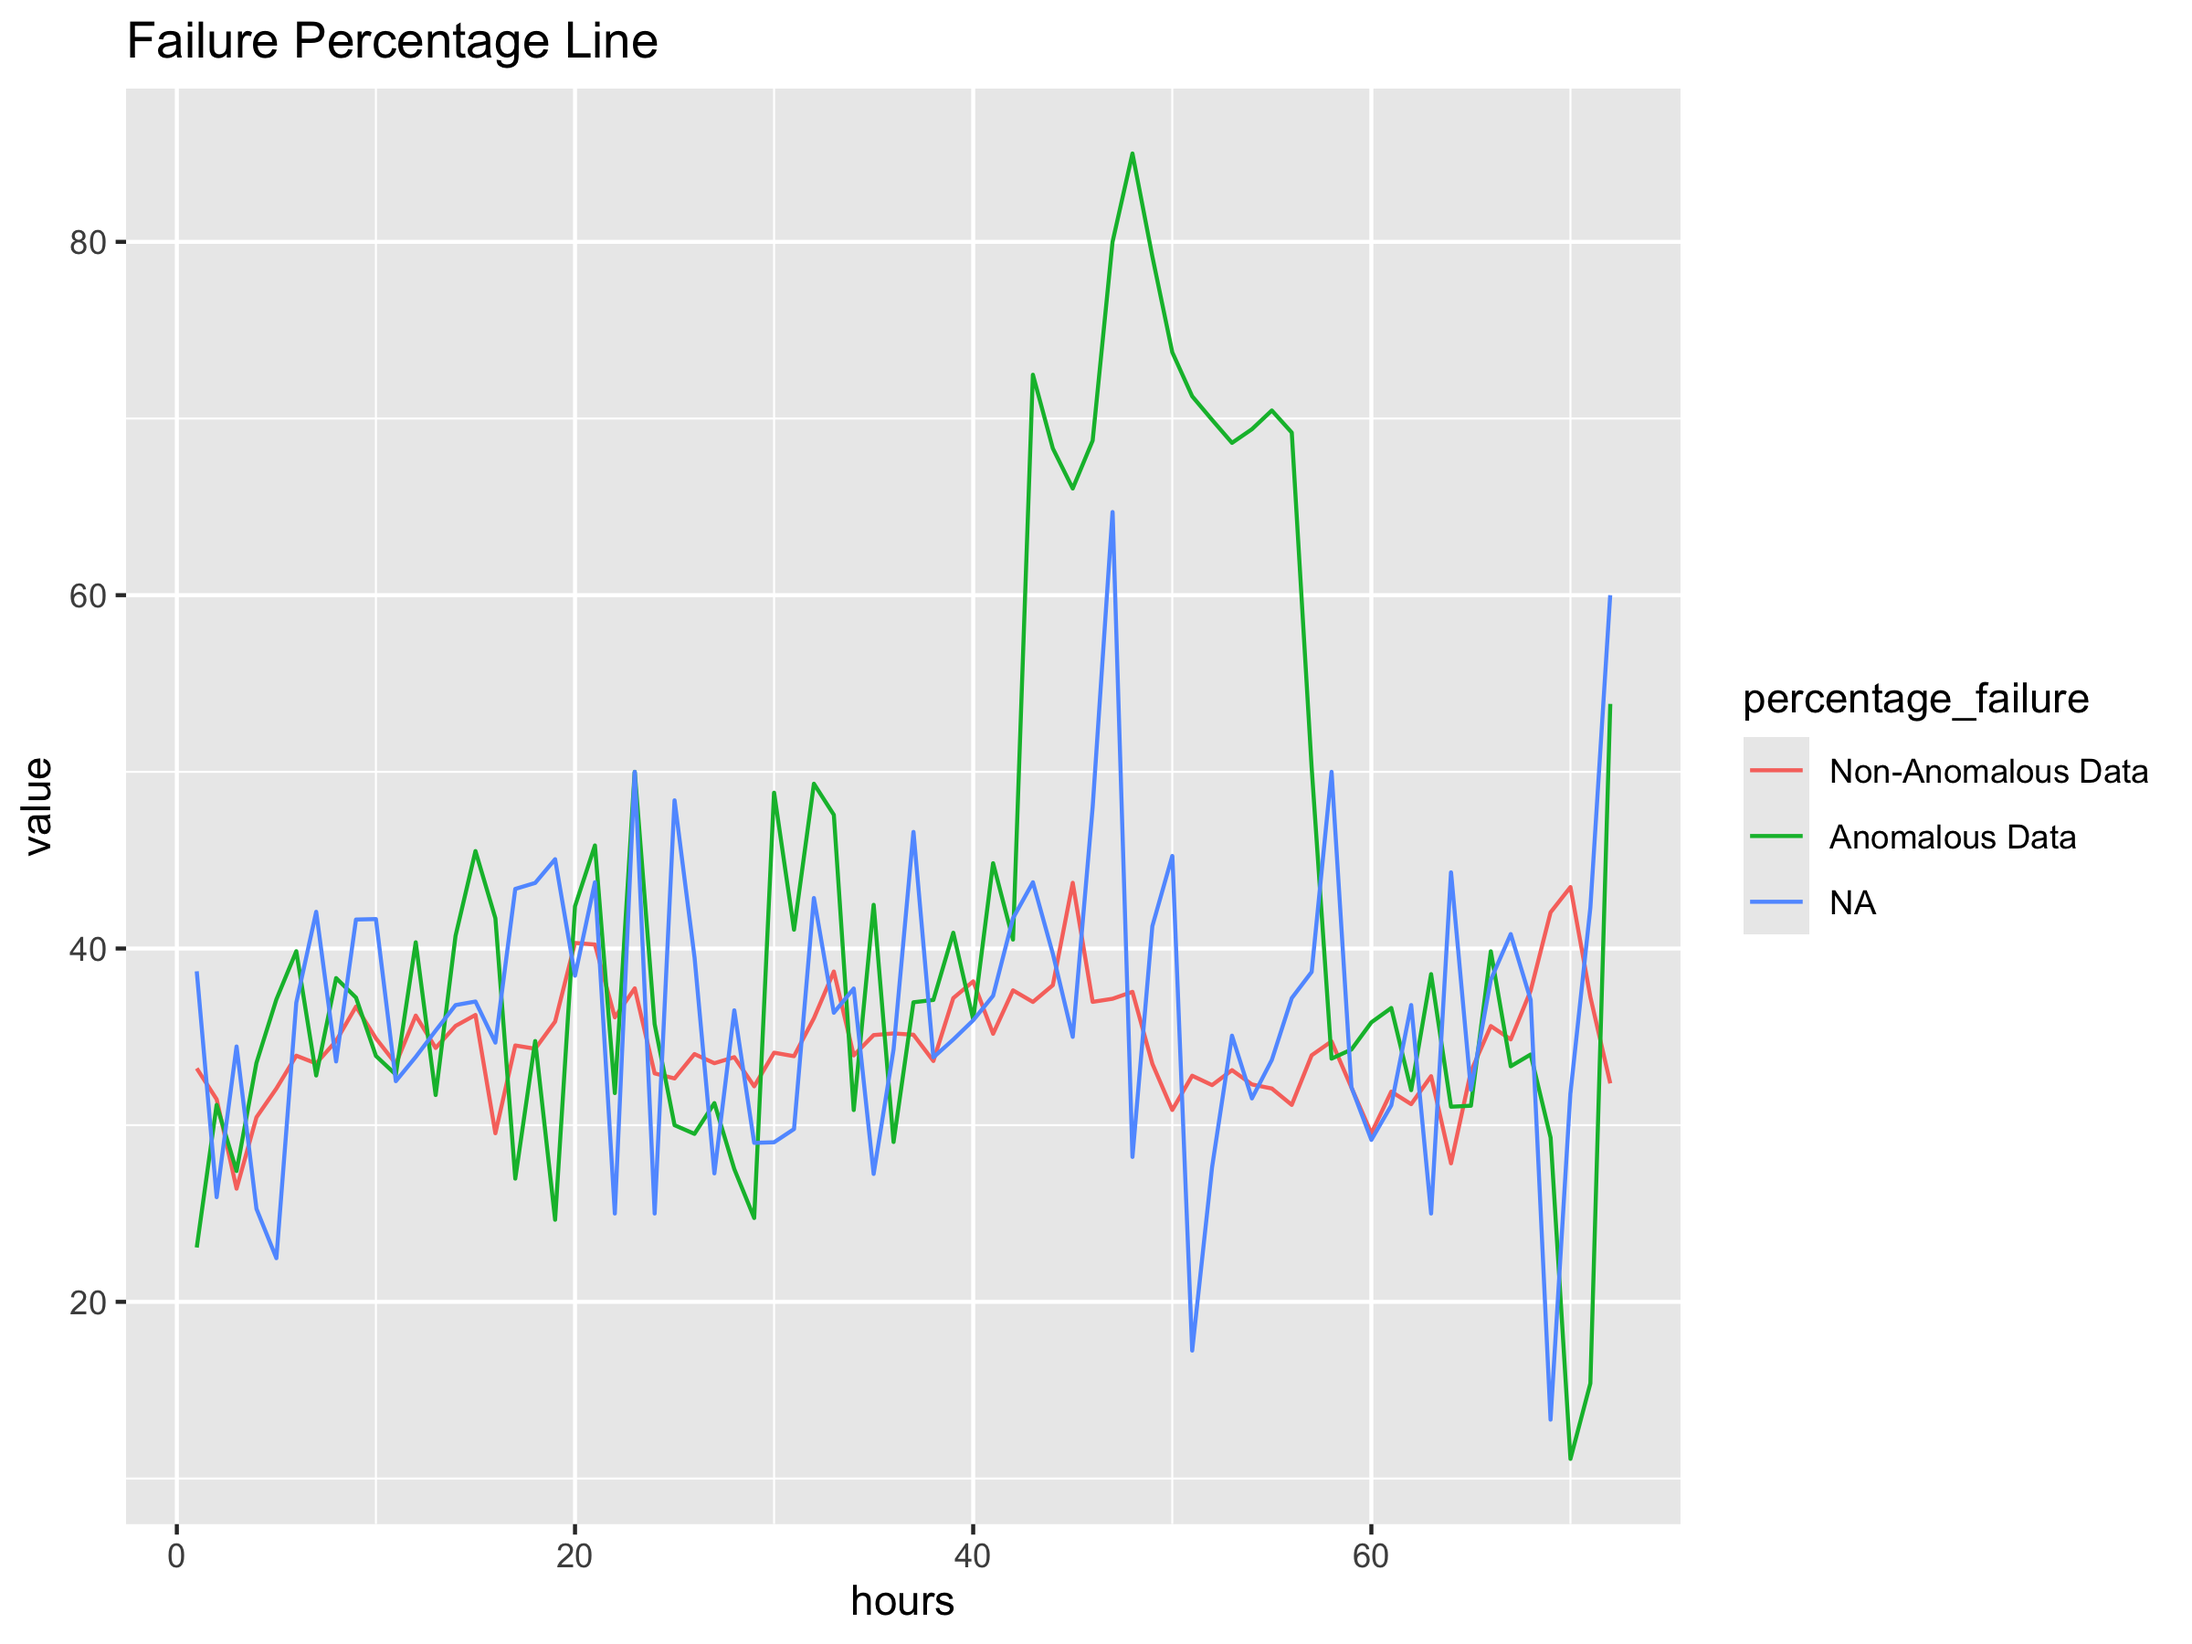
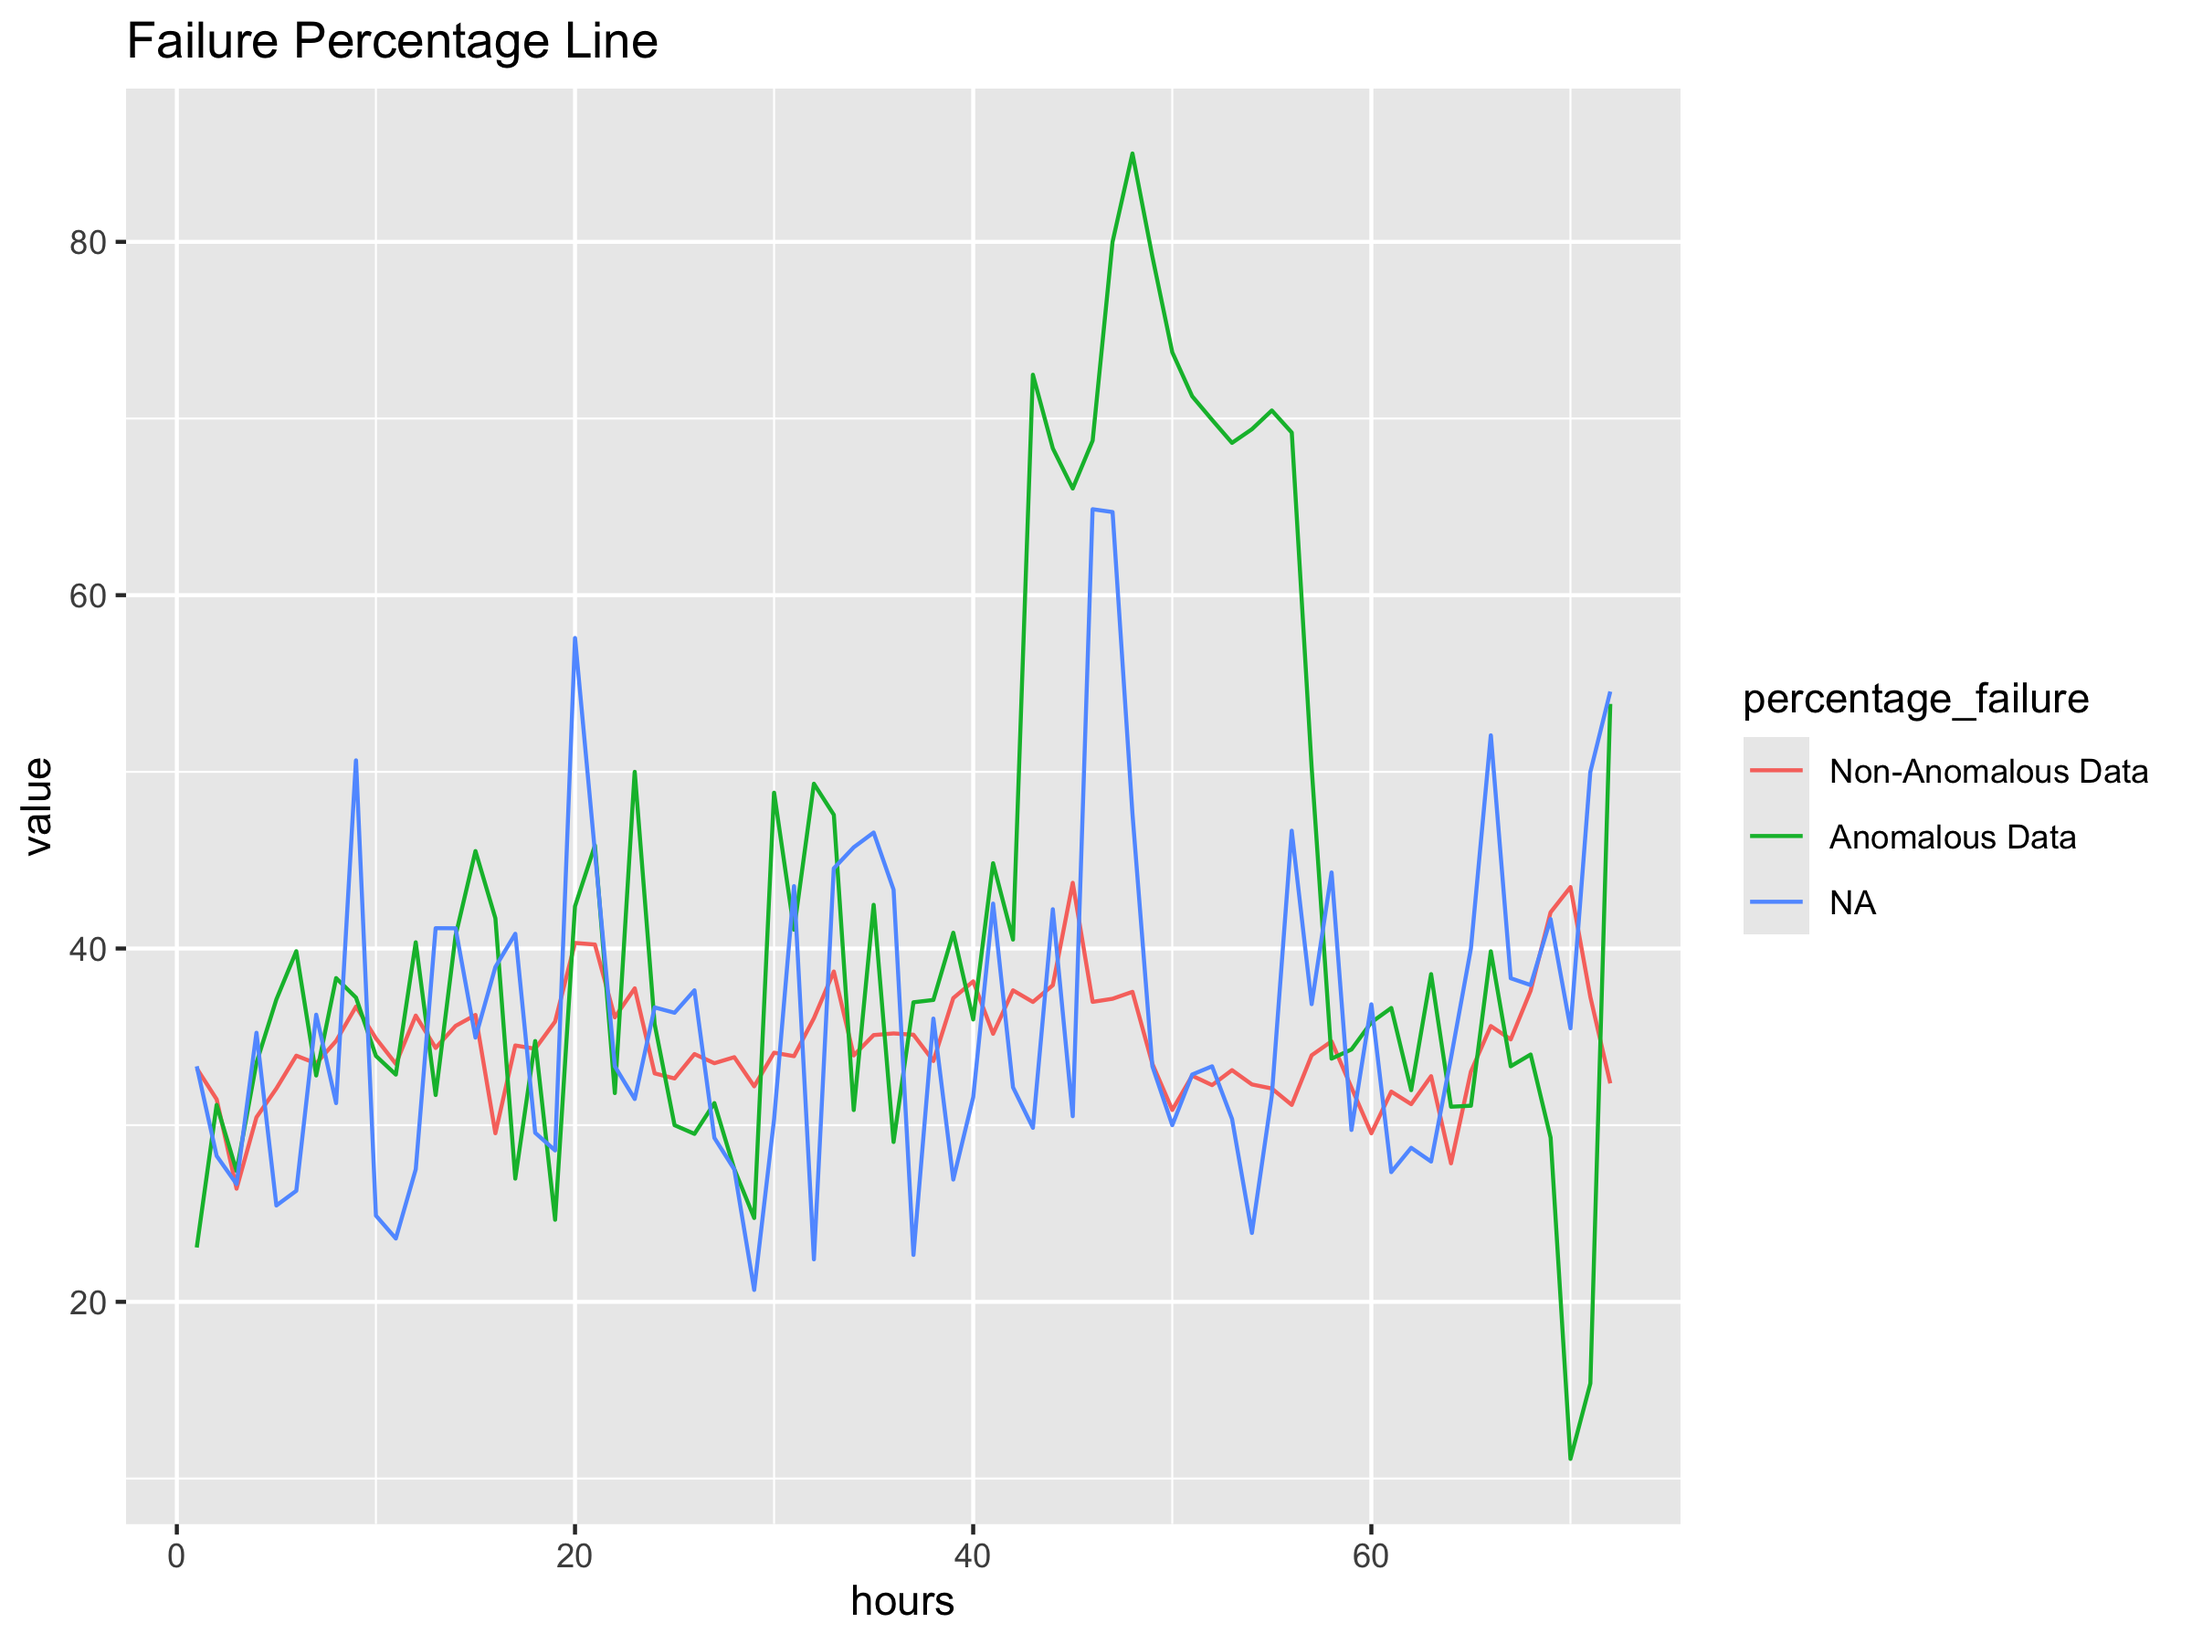
i have the shiny working but i don't know where to go from here on seeing the anamoly sooner

Changed region(s): [[0.0938, 0.3422, 0.75, 0.84], [0.375, 0.4978, 0.4062, 0.5289]]

diff --git a/Anamoly_Detection/ReadMe.md b/Anamoly_Detection/ReadMe.md
@@ -725,13 +725,13 @@ compliment_sample_sizes <- t
 (sum(compliment_sample_sizes[,2]))
 ```
 
-    ## [1] 15345
+    ## [1] 12929
 
 ``` r
 cat("totall transactions in sample of observations from normal data of equal size to number of anamoly observations.",sum(compliment_sample_sizes[,2]))
 ```
 
-    ## totall transactions in sample of observations from normal data of equal size to number of anamoly observations. 15345
+    ## totall transactions in sample of observations from normal data of equal size to number of anamoly observations. 12929
 
 ``` r
 hours <- seq(1, 72, 1)
@@ -766,7 +766,7 @@ ggplot(data = long, aes(x = hours, y = value, group = percentage_failure, color 
 cat("totall transactions in sample of observations from normal data of equal size to number of anamoly observations.",sum(compliment_sample_sizes[,2]))
 ```
 
-    ## totall transactions in sample of observations from normal data of equal size to number of anamoly observations. 15345
+    ## totall transactions in sample of observations from normal data of equal size to number of anamoly observations. 12929
 
 To make a fair comparison of the anomalous data and normal data before
 the anomaly event, the blue line is the failure rate of the normal data
@@ -896,3 +896,6 @@ ggplot(data = failed_transactions, aes(x = x_index, y = failedTransactions)) +
 <img src="ReadMe_files/figure-gfm/unnamed-chunk-24-1.png" width="70%">
 
 </div>
+
+i have the shiny working but i don’t know where to go from here on
+seeing the anamoly sooner
